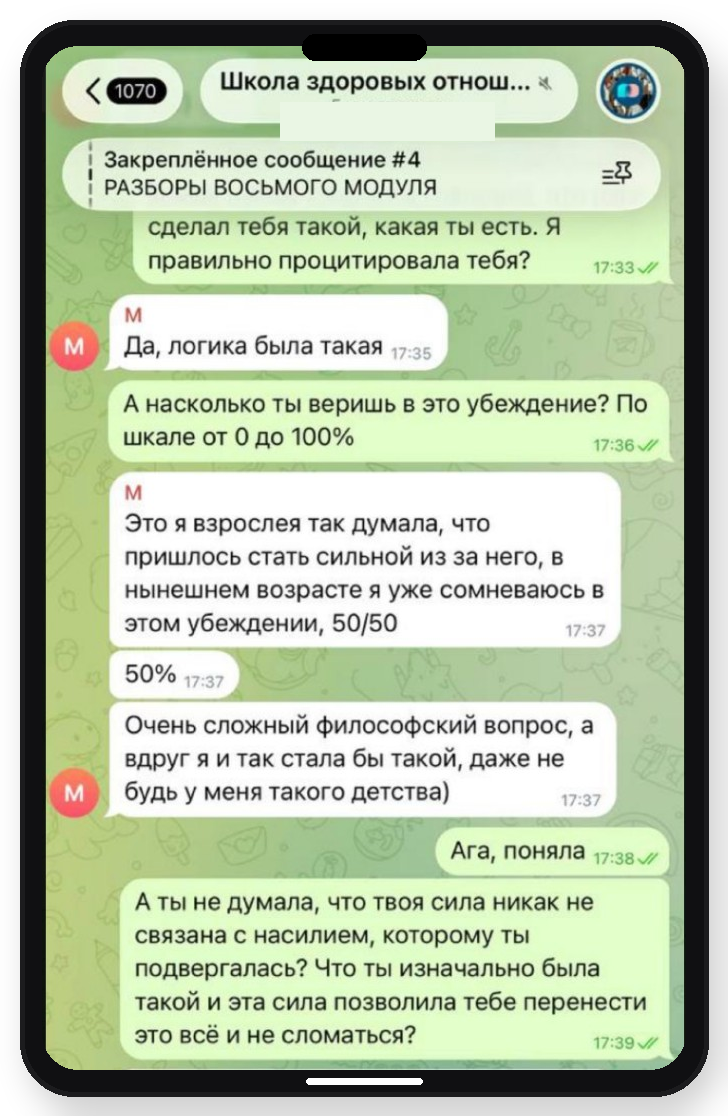
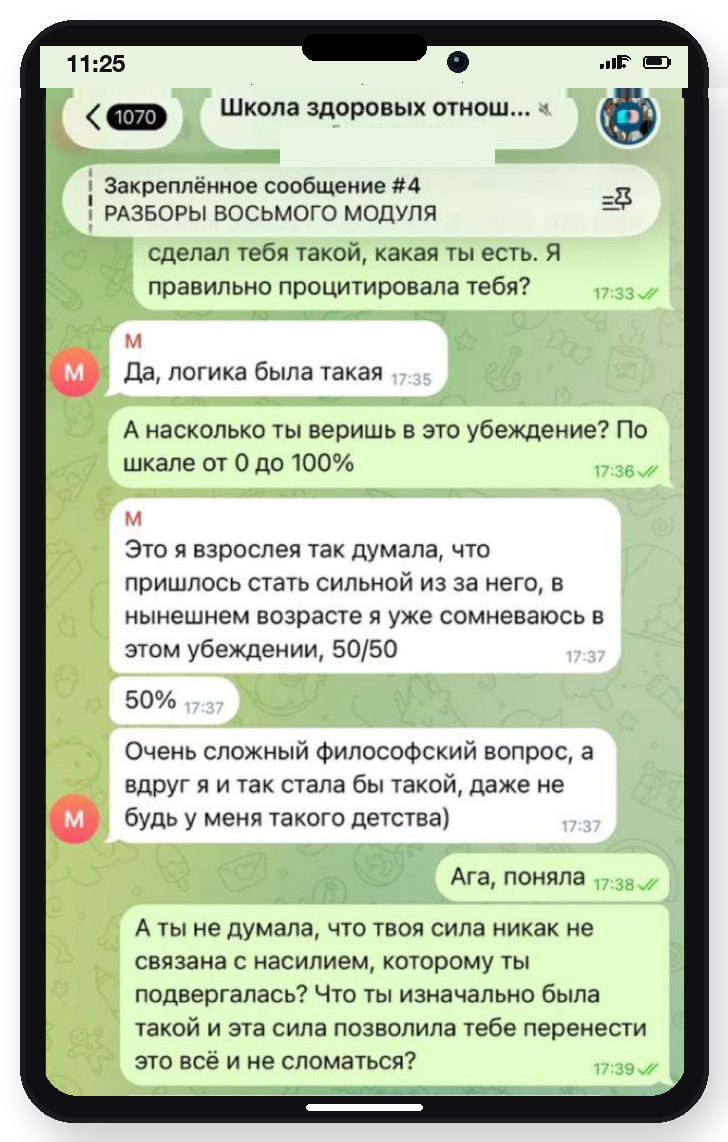
Add an iPhone status bar to the reviews chat screenshot.
Keep the left column and scale the phone so the note still sits on the same bottom edge.

Changed region(s): [[0.0302, 0.0305, 0.967, 0.9749]]

diff --git a/predzapis.html b/predzapis.html
@@ -1,7 +1,7 @@
 <!doctype html>
-<!-- deploy: 2026-09-15-1652 -->
+<!-- deploy: 2026-09-15-1658 -->
 <!-- impeccable-disable single-font: Alifer GetCourse kit, Figtree only -->
-<html lang="ru" data-deploy="2026-09-15-1652" style="color-scheme:only light">
+<html lang="ru" data-deploy="2026-09-15-1658" style="color-scheme:only light">
 <head>
   <meta charset="utf-8">
   <meta name="viewport" content="width=device-width, initial-scale=1">
@@ -33,7 +33,7 @@
   <script>
     (function(){
       var stamp = document.documentElement.getAttribute("data-deploy");
-          fetch("predzapis.html?r=34&fresh=" + Date.now(), {cache:"no-store"})
+          fetch("predzapis.html?r=35&fresh=" + Date.now(), {cache:"no-store"})
         .then(function(r){ return r.text(); })
         .then(function(html){
           var m = html.match(/data-deploy="([^"]+)"/);
@@ -650,7 +650,7 @@
             <div class="upd-stage">
               <div class="upd-aside">
               <div class="upd-phone-slot">
-                <img class="upd-phone-img" src="assets/upd-chat-phone.png" alt="Разбор в чате Школы здоровых отношений" width="728" height="1116">
+                <img class="upd-phone-img" src="assets/upd-chat-phone.png" alt="Разбор в чате Школы здоровых отношений" width="728" height="1142">
               </div>
               <p class="upd-note"><strong>Вам больше не&nbsp;потребуется разгребать сотни новых сообщений в&nbsp;чате, чтобы найти нужный вам разбор.</strong><span>Все примеры будут у&nbsp;вас под&nbsp;рукой в&nbsp;едином сборнике, который останется у&nbsp;вас навсегда.</span></p>
               </div>
